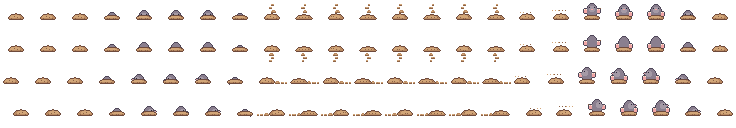
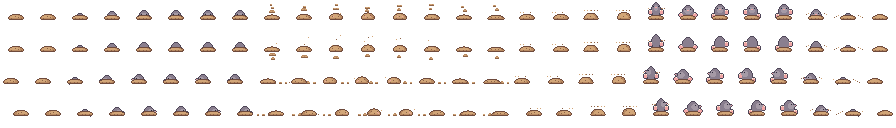
docs(design): enemy showcase: sporecap walks on legs instead of pulsing
Enemy showcase: sporecap walks on legs instead of pulsing; burrow gets a dig stroke, sliding trail and a longer burst

diff --git a/design/enemies/roster/burrow.py b/design/enemies/roster/burrow.py
@@ -1,91 +1,108 @@
 """Burrow: a mole. You never see it walk: you see the earth move.
 
-Every frame is computed. It travels as a mound that ripples forward and leaves smaller mounds behind it. At rest the
-mound sits still and a pink nose comes up to sniff. Its action: the mound trembles and throws crumbs (the warning, held),
-then the mole bursts out with its claws up, hangs there, and sinks back.
+Every frame is computed. Tunnelling is one dig stroke in 8 frames: the mound heaves up and forward, its claws break
+the surface at the front and throw earth ahead, it sinks, and the ridges of turned earth behind it slide back at
+walking speed and flatten. At rest the mound sits still and a nose rises, sniffs twice and goes down again.
+Its action: the mound trembles, then swells (the warning), the mole shoots out stretched thin, lands wide, waves
+its claws, and dives back in a splash of earth.
 It has no shadow (it is the ground), and its sheet leaves ten rows under it for the trail when it heads away from you.
 """
+import math
+
 from art import canvas, dot, ell, over, part
 
 PAL = {"o": "6e4a3c", "m": "b98a62", "l": "d2a678", "k": "8d6347", "b": "8a7f8f", "f": "a59aa6", "O": "4e4658", "p": "f2a6a6",
        "e": "2b2a3a", "w": "fff3d6"}
 W, H, BASE = 30, 30, 19                             # BASE: the ground line; the rows under it hold the trail in the 'up' view
-# the trail, oldest last: (dx, dy, size) from the mound, per facing. Sideways the mound leads, off-centre, the trail behind it.
-TRAIL = {"left": ((10, 0, 2.5), (15, 0, 2), (19, 0, 1.5)), "down": ((1, -7, 2.5), (-1, -11, 2), (1, -14, 1.5)),
-         "up": ((-1, 4, 2.5), (1, 7, 2), (-1, 10, 1.5))}
+AHEAD = {"left": (-1, 0), "down": (0, 1), "up": (0, -1)}
+HEAVE = [math.sin(2 * math.pi * (i - 1) / 8) for i in range(8)]      # one dig stroke: up on frames 2-4, down on 6-8
 
 
 def mound(c, cx, base, rx, ry, i=0):
     ell(c, cx, base, rx, ry, "m", clip=(0, base))
     ell(c, cx - 1, base - 1.2, rx - 1.6, ry - 1.4, "l", on="m", clip=(0, base - 1))
-    for k in range(4 if rx > 4 else 1):                            # crumbs that crawl over it as it moves
-        dot(c, cx - rx + 2 + (k * 3 + i) % max(1, int(2 * rx - 3)), base - 1 - (k * 2 + i) % max(1, int(ry) - 1), "k", on="ml")
+    for k in range(4):                                             # crumbs that roll down it as it moves
+        dot(c, cx - rx + 2.5 + k * (2 * rx - 4) / 3, base - 1 - (k * 2 + i) % max(1, int(ry) - 1), "k", on="ml")
 
 
-def frame(facing, i=0, moving=False, h=0, shake=0, crumbs=0, sniff=0):
+def frame(facing, i=0, moving=False, h=0, wide=5.0, shake=0, swell=0.0, crumbs=0, sniff=0, splash=0):
+    """i: frame of the dig stroke. h: how far the mole is out of the ground; wide: its half-width (thin when it shoots up).
+    swell: the mound bulges. crumbs: earth thrown up (1-3). splash: earth thrown sideways as it dives (1-2)."""
     cx = 10 if facing == "left" else 15
-    g = ["." * W] * H
-
-    def trail():
-        """Turned earth behind it: low ridges, no outline, each one flatter than the one before."""
-        nonlocal g
-        t = [list(r) for r in g]
-        for k, (dx, dy, r) in enumerate(TRAIL[facing]):
-            w = round(2 * r) - (i + k) % 2
-            x0, y = round(cx + dx - w / 2), BASE + dy - 1
+    ax, ay = AHEAD[facing]
+    heave = HEAVE[i] if moving else 0
+    g = [["."] * W for _ in range(H)]
+    if moving:                                                     # turned earth behind it: ridges that slide back, 18 px a cycle
+        for k in range(4):                                         # (the distance it travels), and flatten as they age
+            d = 7 + (k * 6 + i * 2.25) % 18 if facing == "left" else (8 if facing == "down" else 5) + (k * 4 + i * 1.5) % 12
+            if d > (19 if facing == "left" else 16 if facing == "down" else 9):
+                continue
+            w = max(2, round(6 - d * .22))
+            x0, y = round(cx - ax * d + (0 if ax else (k % 2) * 2 - 1) - w / 2), BASE - 1 - round(ay * d * .9)
             for x in range(x0, x0 + w):
-                dot(t, x, y, "l" if (x + i) % 3 else "m", on="."); dot(t, x, y + 1, "k", on=".")
-            if k == 0:
+                dot(g, x, y, "l" if (x + k) % 3 else "m", on="."); dot(g, x, y + 1, "k", on=".")
+            if d < 11:
                 for x in range(x0 + 1, x0 + w - 1):
-                    dot(t, x, y - 1, "m", on=".")
-        g = ["".join(r) for r in t]
-    if moving and facing != "up":
-        trail()
+                    dot(g, x, y - 1, "m", on=".")
+    g = ["".join(r) for r in g]
     if h:                                                          # the mole itself, as far out of the ground as h
         b = canvas(W, H)
         top = BASE - 3 - h
-        ell(b, cx, top + 7, 5, 7, "b", clip=(0, BASE))
+        ell(b, cx, top + 7, wide, 7, "b", clip=(0, BASE))
         if facing != "up":
-            ell(b, cx - (2 if facing == "left" else 0), top + 5, 3, 3, "f", on="b", clip=(0, BASE))
-        if h >= 8:                                                 # the digging claws, flung up
-            for sx in (-1, 1):                                     # held out at its sides, three white nails each
-                ell(b, cx + sx * 6.5, top + 9 - 2 * sniff, 2, 2, "p")
+            ell(b, cx - (2 if facing == "left" else 0), top + 5, wide - 2, 3, "f", on="b", clip=(0, BASE))
+        if h >= 8:                                                 # the digging claws at its sides, white nails up
+            for sx in (-1, 1):
+                ell(b, cx + sx * (wide + 1.5), top + 9 - 2 * sniff * (sx if splash == 0 and crumbs == 0 else 1), 2, 2, "p")
                 for x in (-1.5, .5):
-                    dot(b, cx + sx * 6.5 + x, top + 7 - 2 * sniff, "w", on="p")
+                    dot(b, cx + sx * (wide + 1.5) + x, top + 7 - 2 * sniff * (sx if splash == 0 and crumbs == 0 else 1), "w", on="p")
         if facing == "left":                                       # a pointed snout
-            for x, ch in ((cx - 6, "f"), (cx - 7, "p")):
-                dot(b, x, top + 4 + sniff, ch)
-            dot(b, cx - 6, top + 5 + sniff, "f")
+            for x, ch in ((cx - wide - 1, "f"), (cx - wide - 2, "p")):
+                dot(b, x, top + 4 + (sniff if h < 8 else 0), ch)
+            dot(b, cx - wide - 1, top + 5 + (sniff if h < 8 else 0), "f")
         g = [list(r) for r in over(g, part(b, "O"))]
         if facing == "down":
-            g[top + 4 + sniff][cx - 1] = g[top + 4 + sniff][cx] = "p"
-            g[top + 3][cx - 3] = g[top + 3][cx + 2] = "e"
-        elif facing == "left":
+            g[top + 4 + (sniff if h < 8 else 0)][cx - 1] = g[top + 4 + (sniff if h < 8 else 0)][cx] = "p"
+            if h >= 4:
+                g[top + 3][cx - 3] = g[top + 3][cx + 2] = "e"
+        elif facing == "left" and h >= 4:
             g[top + 3][cx - 3] = "e"
         g = ["".join(r) for r in g]
     m = canvas(W, H)
-    ripple = i % 2 if moving else 0
-    mound(m, cx + shake, BASE, 7.5 if h else 7 + ripple, 3.2 if h else 4.6 - ripple, i)
-    g = over(g, part(m))
-    if moving and facing == "up":                                  # heading away: the trail is nearer the camera, over it
-        trail()
-    g = [list(r) for r in g]
+    rx, ry = (7.5, 3.2) if h else (7 - .8 * heave - swell * .5, 4.4 + 1.2 * heave + swell * 2)
+    mx = cx + shake + round(ax * heave * 1.2)                      # it lurches forward as it heaves
+    mound(m, mx, BASE, rx, ry, i)
+    if moving and heave > .5 and facing != "up":                   # the claws break the surface at the front
+        dot(m, mx + ax * (rx - 1) - (0 if ax else 3), BASE - 2 - (0 if ax else 1), "p", on="ml")
+        dot(m, mx + ax * (rx - 2) + (0 if ax else 2), BASE - 3 - (0 if ax else 0), "p", on="ml")
+    g = [list(r) for r in over(g, part(m))]
+    if moving:                                                     # earth thrown ahead, each crumb on its own arc
+        for k in range(3):
+            t = ((i - 2 + k) % 8) / 4                              # 0..1 in flight, then gone
+            if t < 1:
+                reach = 3 + k * 2 + t * 4
+                dot(g, mx + ax * (rx + reach - 2) + (0 if ax else (k - 1) * 4), BASE - 1 - (ry - 2) * (not ax) * 0
+                    - (5 + k) * 4 * t * (1 - t) + ay * reach * .6 - (3 if not ax else 0), "k" if k % 2 else "l", on=".")
     for k in range(crumbs * 3):                                    # earth thrown up
         x = cx + (k * 7 + crumbs * 3) % 17 - 8
         dot(g, x, BASE - 5 - crumbs * 2 - (k * 5) % 5, "k" if k % 2 else "l", on=".")
+    for k in range(splash * 4):                                    # earth thrown out to both sides as it goes under
+        sx = 1 if k % 2 else -1
+        dot(g, cx + sx * (6 + splash * 2 + k // 2 * 2), BASE - 2 - (3 - splash) * 2 + k // 2, "k" if k % 3 else "l", on=".")
     return ["".join(r) for r in g]
 
 
 def frames(d):
-    return dict(idle=[frame(d), frame(d), frame(d), frame(d, h=3), frame(d, h=5), frame(d, h=5, sniff=1), frame(d, h=5), frame(d, h=2)],
+    return dict(idle=[frame(d), frame(d), frame(d, h=2), frame(d, h=4), frame(d, h=5), frame(d, h=5, sniff=1), frame(d, h=5), frame(d, h=5, sniff=1)],
                 walk=[frame(d, i, moving=True) for i in range(8)],
-                act=[frame(d, shake=-1, crumbs=1), frame(d, shake=1, crumbs=2), frame(d, h=12, crumbs=3, sniff=1), frame(d, h=11), frame(d, h=11),
-                     frame(d, h=5), frame(d)])
+                act=[frame(d, shake=-1, crumbs=1), frame(d, shake=1, crumbs=1), frame(d, shake=-1, swell=.5, crumbs=2), frame(d, swell=1, crumbs=2),
+                     frame(d, h=13, wide=4, crumbs=3), frame(d, h=10, wide=5.6), frame(d, h=11, sniff=1), frame(d, h=11, sniff=-1),
+                     frame(d, h=11, sniff=1), frame(d, h=6, splash=1), frame(d, h=2, splash=2), frame(d, swell=-.3)])
 
 
 ENEMY = dict(
     key="burrow", name="Burrow", pal=PAL, role="digger", cell=(32, 32), act="burst", move="tunnel",
-    ms=dict(idle=260, walk=90, act=[220, 220, 80, 200, 200, 140, 160]),
+    ms=dict(idle=220, walk=90, act=[110, 110, 110, 160, 70, 100, 140, 140, 140, 90, 90, 140]),
     where="soft ground: meadows, fields, gardens. Never under stone or paths", when="day",
     behaviour="A line of molehills coming your way is all you see. It tunnels under fences and walls, eats one root crop, and "
               "leaves. Under your feet it bursts out and knocks you back a tile (small damage). It can only be hit while it is "

diff --git a/design/enemies/roster/sporecap.py b/design/enemies/roster/sporecap.py
@@ -1,7 +1,9 @@
 """Sporecap: a walking mushroom of the forest floor. Small, round-capped, harmless until crowded.
 
-Every frame is computed. It waddles: the cap sways over the foot that carries it and settles a pixel when both feet
-are down. At rest the cap breathes. Crowded, it squats (the warning, held), then pops tall and throws a ring of spores.
+Every frame is computed, and the cap never changes shape (a pulsing dome is the wisp's move, not this one's).
+It walks on two short legs: the cap leans over the foot that carries it and the body rises a pixel as the other
+swings, like the player. At rest it is a mushroom: dead still, with eyes that glance about and blink.
+Crowded, it ducks under its cap and shivers (the warning, held), then jumps up and throws a ring of spores.
 """
 import math
 
@@ -13,31 +15,45 @@ W, H, CX, BASE = 28, 24, 14, 22
 SPOTS = {"down": ((-6, -1), (-1, -4), (3, -2)), "left": ((-4, -2), (1, -4), (5, -1)), "up": ((4, -1), (-1, -4), (-5, -2))}
 
 
-def frame(facing, sq=0, lean=0, lift=None, blink=False, ring=0):
-    fx = -1 if facing == "left" else 0
+STEP = [-2, -1, 0, 1, 2, 1, 0, -1]                  # a foot's reach through one step, seen from the side
+UP = [0, 0, 0, 0, 0, 1, 1, 1]                       # it is off the ground while it swings forward
+
+
+def frame(facing, tip=0, lift=None, step=None, up=0, look=0, blink=False, hide=0, shake=0, ring=0):
+    """tip: the cap leans a pixel left (-1) or right (1). lift: 'l'/'r' foot raised (front and back views).
+    step: frame of the side walk. up: legs stretched by this much. hide: ducked under the cap by this much."""
+    side = facing == "left"
     st = canvas(W, H)
-    for y in range(BASE - 8, BASE):                                    # the stem, a shade on its right side
+    low = BASE - 2 - up
+    for y in range(BASE - 9 - up + hide, low + 1):                    # the stem, a shade on its right side
         for x in range(CX - 3, CX + 3):
-            st[y][x] = "k" if x == CX + 2 else "c"
-    for foot, xs in (("l", (CX - 3, CX - 2)), ("r", (CX + 1, CX + 2))):  # two small feet; a lifted one tucks into the stem
-        if lift != foot:
-            for x in xs:
-                st[BASE][x] = "k"
-    cp, cy = canvas(W, H), BASE - 7 + sq
-    ell(cp, CX + lean, cy, 8 + sq, 6 - sq, "r", clip=(0, cy + 2))      # the cap: a dome, flat underneath
-    for x in range(W):
-        if cp[cy + 1][x] == "r":
-            cp[cy + 1][x] = "u"
-    ell(cp, CX + lean - 3, cy - 4.3 + sq, 2.2, .8, "h", on="r")
-    for dx, dy in SPOTS[facing]:
-        for i, j in ((0, 0), (1, 0), (0, 1), (1, 1)):
-            dot(cp, CX + lean + dx + i, cy + dy + j + (sq if dy < -2 else 0), "w", on="rh")
+            st[y][x + shake] = "k" if x == CX + 2 else "c"
+    feet = []
+    if not hide:
+        if side and step is not None:
+            feet = [(CX - 1 + STEP[(step + 4) % 8], UP[(step + 4) % 8]), (CX - 1 + STEP[step], UP[step])]      # far foot, near foot
+        else:
+            feet = [(CX - 3, lift == "l"), (CX + 1, lift == "r")]
+    for x, raised in feet:
+        for y in range(low + 1, BASE + (0 if raised else 1)):
+            st[y][x] = st[y][x + 1] = "k"
+    cp, cy = canvas(W, H), BASE - 8 - up + hide * 2
+    for y in range(H):                                                # the cap: a dome, flat underneath, always the same shape;
+        for x in range(W):                                            # it slides a pixel over the foot that carries it
+            lx, ly = x + .5 - CX - shake - tip, y + .5 - cy
+            if (lx / 8) ** 2 + (ly / 6) ** 2 > 1 or ly > 2:
+                continue
+            spot = any(sx <= lx - .5 < sx + 2 and sy <= ly - .5 < sy + 2 for sx, sy in SPOTS[facing])
+            shine = ((lx + 3) / 2.2) ** 2 + ((ly + 4.3) / .8) ** 2 <= 1
+            cp[y][x] = "u" if ly > 1 else "w" if spot else "h" if shine else "r"
     g = [list(r) for r in over(part(st), part(cp, "O"))]
-    if facing != "up":
-        for x in ((CX - 2, CX + 1) if not fx else (CX - 3, CX - 1)):
-            g[cy + 4][x] = "k" if blink else "e"
-        for x in ((CX - 3, CX + 2) if not fx else (CX - 2,)):
-            g[cy + 5][x] = "p"
+    ey = cy + 4
+    if facing != "up" and hide < 2:
+        for x in ((CX - 2, CX + 1) if not side else (CX - 3, CX - 1)):
+            g[ey][x + look] = "k" if blink else "e"
+        if not hide:
+            for x in ((CX - 3, CX + 2) if not side else (CX - 2,)):
+                g[ey + 1][x] = "p"
     for k in range(14 if ring else 0):                                 # the spores, in a widening ring
         a = k * math.pi / 7 + ring * .5
         x, y = CX + (7 + 2.5 * ring) * math.cos(a), cy - 2 + (5 + 2 * ring) * math.sin(a)
@@ -46,22 +62,24 @@ def frame(facing, sq=0, lean=0, lift=None, blink=False, ring=0):
     return ground(g, CX, 12)
 
 
-LEAN = [-1, -1, 0, 0, 1, 1, 0, 0]
-LIFT = ["r", "r", None, None, "l", "l", None, None]
-
-
 def frames(d):
-    return dict(idle=[frame(d, sq=s, blink=b) for s, b in ((0, 0), (0, 0), (1, 0), (1, 0), (0, 0), (0, 1), (1, 0), (1, 0))],
-                walk=[frame(d, sq=i // 2 % 2, lean=LEAN[i], lift=LIFT[i]) for i in range(8)],
-                act=[frame(d, sq=2, blink=True), frame(d, sq=-1, ring=1), frame(d, sq=-1, ring=2), frame(d, ring=3), frame(d)])
+    if d == "left":                                                    # it nods forward as each foot lands
+        walk = [frame(d, step=i, tip=(-1, -1, 0, 0)[i % 4], up=(0, 0, 1, 1)[i % 4]) for i in range(8)]
+    else:
+        walk = [frame(d, tip=t, lift=f, up=u) for t, f, u in ((-1, "r", 1), (-1, "r", 1), (0, None, 0), (0, None, 0),
+                                                              (1, "l", 1), (1, "l", 1), (0, None, 0), (0, None, 0))]
+    idle = [frame(d), frame(d), frame(d, look=-1), frame(d, look=-1), frame(d), frame(d, blink=True), frame(d, look=1), frame(d)]
+    return dict(idle=idle, walk=walk,
+                act=[frame(d, hide=2, shake=-1), frame(d, hide=2, shake=1), frame(d, hide=2, shake=-1), frame(d, up=2, ring=1),
+                     frame(d, up=1, ring=2), frame(d, ring=3), frame(d, hide=1), frame(d)])
 
 
 ENEMY = dict(
     key="sporecap", name="Sporecap", pal=PAL, role="nuisance", cell=(32, 32), act="puff", move="waddle",
-    ms=dict(idle=240, walk=90, act=[450, 90, 140, 180, 200]),
+    ms=dict(idle=280, walk=90, act=[160, 160, 160, 90, 140, 160, 120, 160]),
     where="forest shade, near old stumps", when="day and night",
     behaviour="Stands still among the trees and looks like any mushroom, then gets up and waddles off. Harmless at a distance. "
-              "Stand next to it and it squats, then pops a ring of spores: no damage, but you walk slowly for a few seconds. "
+              "Stand next to it and it ducks under its cap, shivers, then jumps and throws a ring of spores: no damage, but you walk slowly for a few seconds. "
               "Agents learn to harvest it from two tiles away, or to wait until it has puffed.",
     stats=dict(hp=8, damage=0, speed="slower than you", drops="mushroom, spores (plant them to grow more)"),
     dirs={d: frames(d) for d in ("left", "down", "up")},
